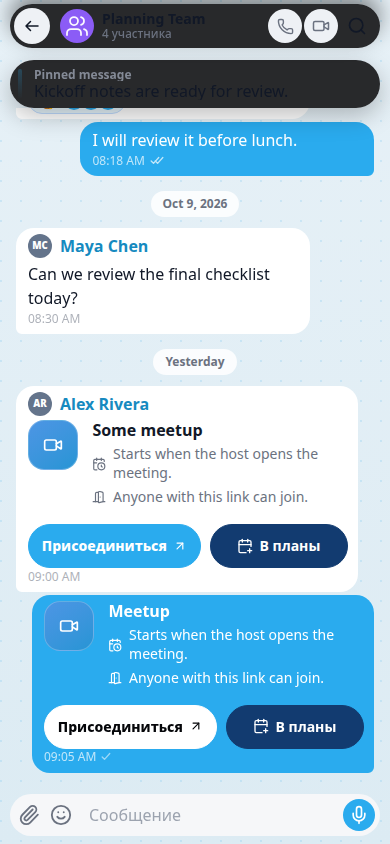
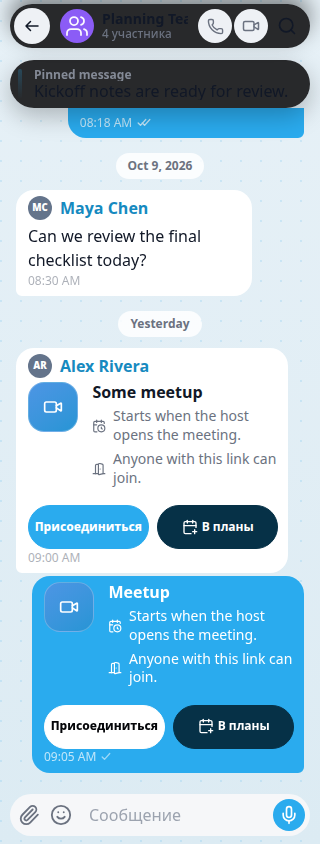
[Fix] keep meetup actions compact on phones

diff --git a/frontend/src/styles/composer-and-message-editing.css b/frontend/src/styles/composer-and-message-editing.css
@@ -1309,7 +1309,7 @@
 .message-bubble.mine .guest-meeting-invitation-copy,
 .message-bubble.mine .guest-meeting-invitation-copy strong,
 .message-bubble.mine .guest-meeting-invitation-detail { color: var(--color-palette-f2074b6cef37); }
-.guest-meeting-invitation-actions { display: grid; gap: .55rem; grid-column: 1 / -1; grid-template-columns: minmax(0, 1.25fr) minmax(0, 1fr); margin-top: .15rem; }
+.guest-meeting-invitation-actions { display: grid; gap: .55rem; grid-column: 1 / -1; grid-template-columns: repeat(2, minmax(0, 1fr)); margin-top: .15rem; }
 .guest-meeting-invitation-join {
   align-items: center;
   background: var(--accent-primary);
@@ -1329,9 +1329,12 @@
 .message-bubble.mine .guest-meeting-invitation-join { background: var(--color-palette-f2074b6cef37); border-color: var(--color-palette-f2074b6cef37); color: var(--color-palette-930c6a0c90da) !important; }
 .guest-meeting-invitation-join:hover { background: var(--accent-primary-hover); border-color: var(--accent-primary-hover); }
 .message-bubble.mine .guest-meeting-invitation-join:hover { background: color-mix(in oklab, var(--color-palette-f2074b6cef37) 90%, var(--color-palette-930c6a0c90da)); border-color: color-mix(in oklab, var(--color-palette-f2074b6cef37) 90%, var(--color-palette-930c6a0c90da)); }
-.guest-meeting-invitation-plan { align-items: center; background: var(--color-palette-db0c497d2782); border: 1px solid var(--color-palette-db0c497d2782); border-radius: var(--radius-pill); color: var(--color-palette-f2074b6cef37) !important; display: inline-flex; font-size: var(--font-size-small); font-weight: var(--font-weight-bold); gap: .38rem; justify-content: center; min-height: 44px; padding: .45rem .65rem; text-decoration: none !important; }
-.guest-meeting-invitation-plan:hover { background: var(--color-palette-bade0f691df5); border-color: var(--color-palette-bade0f691df5); }
-@media (max-width: 380px) { .guest-meeting-invitation-actions { grid-template-columns: 1fr; } }
+.guest-meeting-invitation-plan { align-items: center; background: color-mix(in oklab, var(--accent-primary) 42%, var(--color-palette-7b2817bf9b80) 58%); border: 1px solid color-mix(in oklab, var(--accent-primary) 42%, var(--color-palette-7b2817bf9b80) 58%); border-radius: var(--radius-pill); color: var(--color-palette-f2074b6cef37) !important; display: inline-flex; font-size: var(--font-size-small); font-weight: var(--font-weight-bold); gap: .38rem; justify-content: center; min-height: 44px; padding: .45rem .65rem; text-decoration: none !important; }
+.guest-meeting-invitation-plan:hover { background: color-mix(in oklab, var(--accent-primary) 50%, var(--color-palette-7b2817bf9b80) 50%); border-color: color-mix(in oklab, var(--accent-primary) 50%, var(--color-palette-7b2817bf9b80) 50%); }
+@media (max-width: 380px) {
+  .guest-meeting-invitation-actions > a { box-sizing: border-box; font-size: var(--font-size-caption); gap: .25rem; min-width: 0; padding: .4rem .3rem; text-align: center; white-space: nowrap; }
+  .guest-meeting-invitation-join > svg { display: none; }
+}
 
 .message-spoiler {
   appearance: none;

diff --git a/e2e/visual/mobile-layout.spec.ts b/e2e/visual/mobile-layout.spec.ts
@@ -50,8 +50,8 @@ test('V-15 canvas message preview is compact on a phone',async({page},info)=>{
  await screenshot(page,info,s);
 });
 
-test('V-16 guest meeting actions stay distinct on a phone',async({page},info)=>{
- const s:Scenario={id:'V-16',viewport:{width:390,height:844},theme:'light',locale:'ru',state:'mobile-layout-meetup'};
+test('V-16 guest meeting actions stay equal and distinct on a narrow phone',async({page},info)=>{
+ const s:Scenario={id:'V-16',viewport:{width:320,height:844},theme:'light',locale:'ru',state:'mobile-layout-meetup'};
  await prepareVisualScenario(page,s);
  const invitations=page.locator('.guest-meeting-invitation');
  await expect(invitations).toHaveCount(2);
@@ -64,6 +64,15 @@ test('V-16 guest meeting actions stay distinct on a phone',async({page},info)=>{
   const plan = invitation.locator('.guest-meeting-invitation-plan');
   const joinStyle = await join.evaluate((node) => getComputedStyle(node));
   const planStyle = await plan.evaluate((node) => getComputedStyle(node));
+  const joinBounds = await join.boundingBox();
+  const planBounds = await plan.boundingBox();
+  expect(joinBounds).not.toBeNull();
+  expect(planBounds).not.toBeNull();
+  expect(Math.abs(joinBounds!.width - planBounds!.width)).toBeLessThanOrEqual(1);
+  expect(Math.abs(joinBounds!.y - planBounds!.y)).toBeLessThanOrEqual(1);
+  expect(await join.evaluate((node) => getComputedStyle(node).whiteSpace)).toBe('nowrap');
+  expect(await join.evaluate((node) => node.scrollWidth <= node.clientWidth)).toBe(true);
+  expect(await plan.evaluate((node) => node.scrollWidth <= node.clientWidth)).toBe(true);
   const bubbleBackground = await invitation.evaluate((node) => getComputedStyle(node.closest('.message-bubble')!).backgroundColor);
   expect(parseFloat(joinStyle.borderTopLeftRadius)).toBeGreaterThanOrEqual(22);
   expect(parseFloat(planStyle.borderTopLeftRadius)).toBeGreaterThanOrEqual(22);

diff --git a/frontend/src/features/chats/conversation/MessageBubble.test.tsx b/frontend/src/features/chats/conversation/MessageBubble.test.tsx
@@ -40,6 +40,8 @@ describe("guest meeting invitation visual hierarchy", () => {
     const iconRule = conversationStyles.match(/\.guest-meeting-invitation-icon\s*\{([^}]*)\}/)?.[1] ?? "";
     const outgoingJoinRule = conversationStyles.match(/\.message-bubble\.mine \.guest-meeting-invitation-join\s*\{([^}]*)\}/)?.[1] ?? "";
     const planRule = conversationStyles.match(/\.guest-meeting-invitation-plan\s*\{([^}]*)\}/)?.[1] ?? "";
+    const actionsRule = conversationStyles.match(/\.guest-meeting-invitation-actions\s*\{([^}]*)\}/)?.[1] ?? "";
+    const compactActionsRule = conversationStyles.match(/@media \(max-width: 380px\)\s*\{\s*\.guest-meeting-invitation-actions > a\s*\{([^}]*)\}/)?.[1] ?? "";
 
     expect(invitationRule).toMatch(/background:\s*transparent/);
     expect(invitationRule).toMatch(/border:\s*0/);
@@ -51,8 +53,11 @@ describe("guest meeting invitation visual hierarchy", () => {
     expect(outgoingJoinRule).toMatch(/background:\s*var\(--color-palette-f2074b6cef37\)/);
     expect(joinRule).toMatch(/min-height:\s*44px/);
     expect(iconRule).toMatch(/box-shadow:\s*none/);
-    expect(planRule).toMatch(/background:\s*var\(--color-palette-db0c497d2782\)/);
+    expect(planRule).toMatch(/background:\s*color-mix\(in oklab, var\(--accent-primary\) 42%, var\(--color-palette-7b2817bf9b80\) 58%\)/);
     expect(planRule).toMatch(/border-radius:\s*var\(--radius-pill\)/);
+    expect(actionsRule).toContain("grid-template-columns: repeat(2, minmax(0, 1fr));");
+    expect(compactActionsRule).toContain("font-size: var(--font-size-caption);");
+    expect(compactActionsRule).toContain("white-space: nowrap;");
   });
 });
 

diff --git a/docs/agent-workflows/evidence/mobile-layout/README.md b/docs/agent-workflows/evidence/mobile-layout/README.md
@@ -7,4 +7,4 @@ Captured from the local mock application with Chromium 151.0.7922.34 on Linux. S
 | V-13 | 390 × 844 | Dark | Russian | Open New Chat from Chats |
 | V-14 | 320 × 844 | Dark | Russian | Open Files and inspect tile grid |
 | V-15 | 390 × 844 | Dark | English | Open chat with canvas message |
-| V-16 | 390 × 844 | Light | Russian | Open chat with incoming and outgoing guest meeting cards |
+| V-16 | 320 × 844 | Light | Russian | Open chat with incoming and outgoing guest meeting cards; confirm equal-width actions stay in one row |
